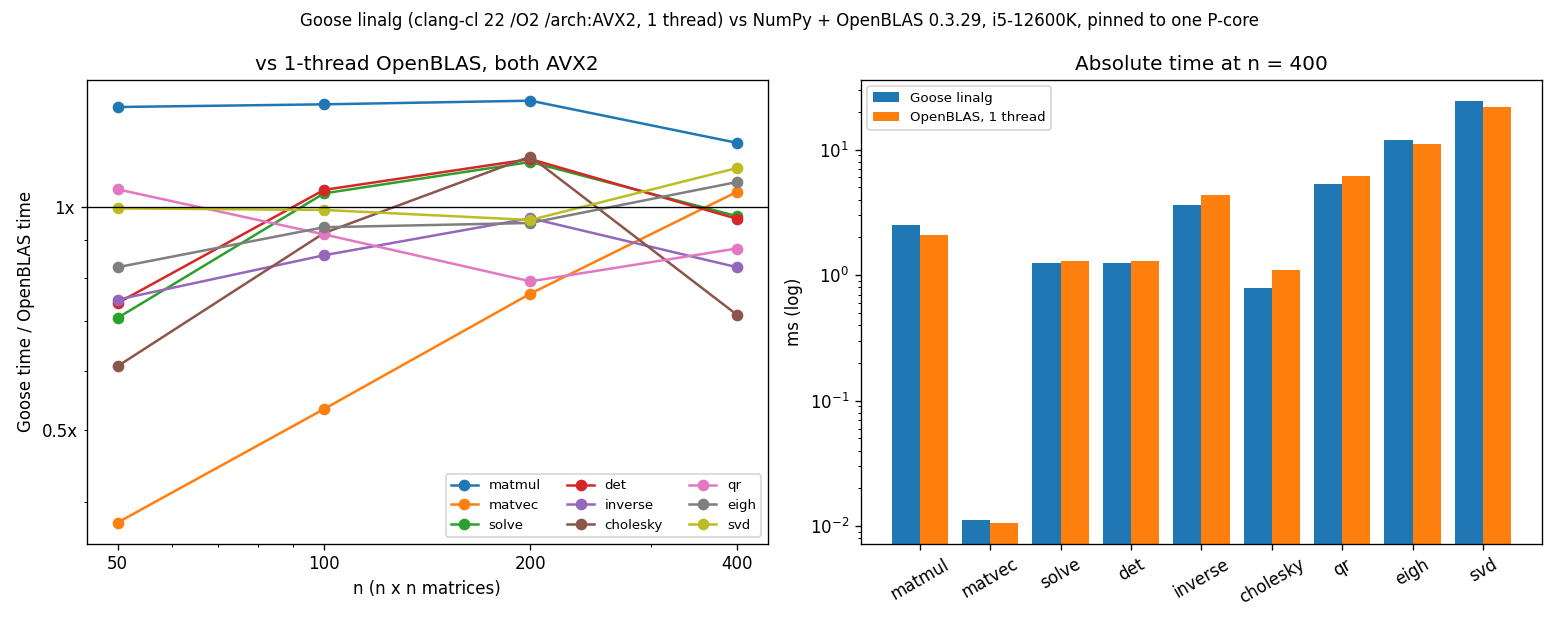
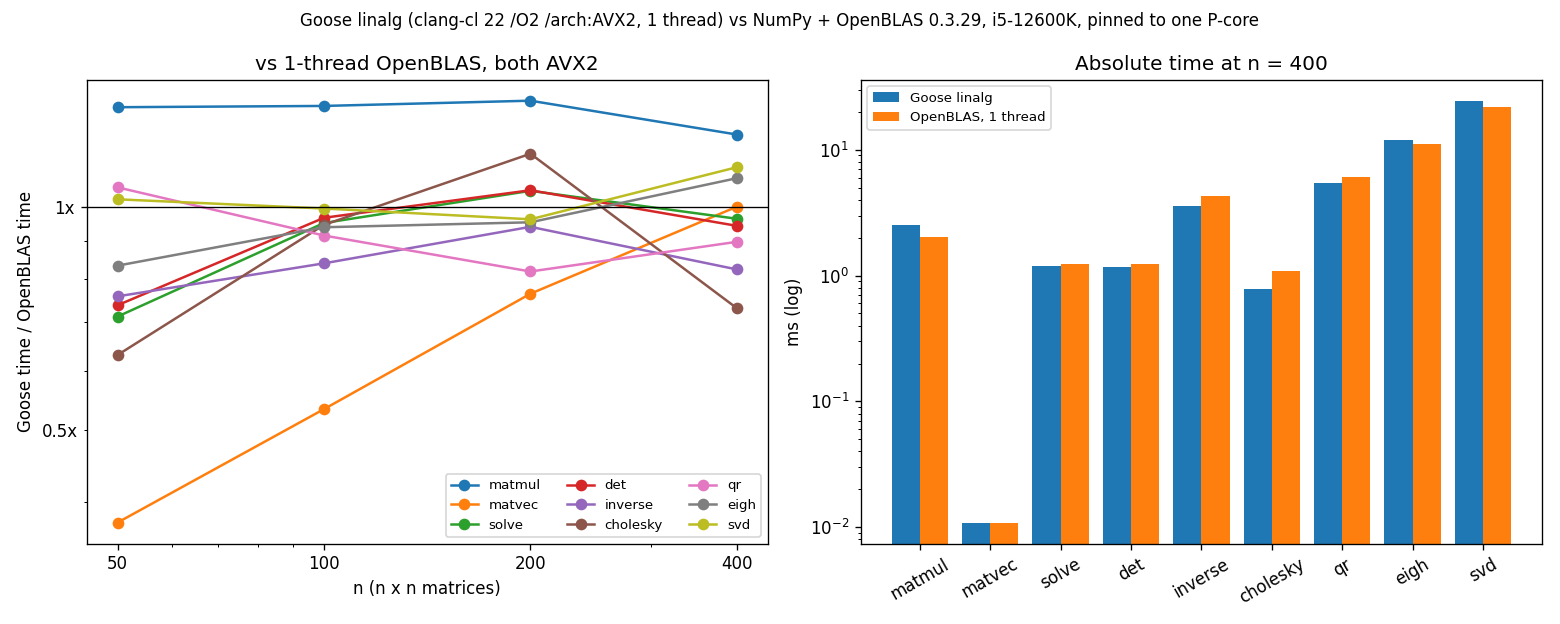
README and plots for v0.3.2
The single-threaded and multithreaded tables, the comparisons under
them and the plain-build and /fp:fast figures, from a fresh run of
run_pinned.ps1 with the faster LU panel; the LU's description names its
delayed column updates and vectorized pivot search. One OpenBLAS run on
six threads stalled (solve_matrix took 94 ms at n = 400 instead of 3) and
was run again. Imports point at v0.3.2.

diff --git a/README.md b/README.md
@@ -5,7 +5,7 @@ build step, nothing to install. An optional module, `linalg.parallel`, runs the 
 several threads.
 
 ```goose
-import linalg from "guillochon/goose-linalg@v0.3.1";   // or from "../goose-linalg" for a local checkout
+import linalg from "guillochon/goose-linalg@v0.3.2";   // or from "../goose-linalg" for a local checkout
 
 fn main() {
     let a = linalg::from_rows(3, 3, [4, 1, 2, 1, 3, 0, 2, 0, 5]);
@@ -62,7 +62,8 @@ first, until `goose fetch --update`.
 - `lu_factor` uses partial pivoting, blocked twice as LAPACK's `getrf`. Within an outer block of
   256 columns it factors 32-column panels, each updating the rest of the outer block with one
   matrix multiply; then the outer block updates the whole trailing matrix, 256 deep. Each panel is
-  factored in a column-major copy, so its divisions and updates run down long contiguous columns.
+  factored in a column-major copy, so its work runs down long contiguous columns: each column
+  takes the updates of the columns before it four at a time, then a vectorized pivot search.
   Up to 64 columns it runs unblocked. `det`, `solve`, `solve_matrix` and `inverse` are built on it. The
   triangular solves behind `solve_matrix` and `inverse` are blocked the same two ways. `inverse`
   also skips the zeros of L⁻¹, so it costs about 2n³ flops rather than 2⅔n³.
@@ -118,7 +119,7 @@ targets baseline x86-64 (SSE2).
 
 - **Under clang:** `linalg`'s hot kernels are `simd fn`s. Goose builds each for baseline x86-64
   and again for AVX2 and AVX-512, and picks the widest the CPU has at run time. A plain
-  `goose build` therefore ran within 3% of a build with AVX2 at n = 400 and 6% at smaller sizes, and
+  `goose build` therefore ran within 2% of a build with AVX2 at n = 400 and 9% at smaller sizes, and
   the matrix multiply ran at twice the speed it gets without `simd`.
 - **Under MSVC:** `simd` does nothing (Goose builds one version), so enable AVX2 yourself before
   building:
@@ -136,8 +137,8 @@ targets baseline x86-64 (SSE2).
   multiply-adds, and `/fp:contract` or `-ffp-contract=fast` change nothing.
 
 Don't use `/fp:fast` or `-ffast-math`. Under clang they do bring FMA back. The disassembly
-showed 2,124 vector FMA instructions against none, and the matrix multiply took 26% less time at
-n = 400, at 68 GFLOP/s, ahead of OpenBLAS's 62. But they break IEEE semantics: under `/fp:fast`, MSVC folds `1.0 / 0.0` to
+showed 2,124 vector FMA instructions against none, and the matrix multiply took 24% less time at
+n = 400, at 67 GFLOP/s, ahead of OpenBLAS's 63. But they break IEEE semantics: under `/fp:fast`, MSVC folds `1.0 / 0.0` to
 `1e300`, and checks for NaN and infinity stop working. One check in the test suite fails under
 it. It also ends `linalg.parallel`'s bit-for-bit match with the serial results: fast-math lets
 the compiler build the worker threads' copy of the kernel with a different summation order.
@@ -145,7 +146,7 @@ the compiler build the worker threads' copy of the kernel with a different summa
 ## Multithreading
 
 ```goose
-import linalg from "guillochon/goose-linalg@v0.3.1";
+import linalg from "guillochon/goose-linalg@v0.3.2";
 import linalg.parallel;
 
 fn main() {
@@ -243,7 +244,7 @@ race.
 | Memory | 32 GB DDR5-6200 (2 × 16 GB Corsair Vengeance, CMK32GX5M2B6200C36) |
 | Board | ASUS ROG STRIX Z690-I GAMING WIFI |
 | OS | Windows 11 Home 23H2 (build 22631), High performance power plan |
-| Goose | v2026.3, compiled by clang-cl 22.1.3 (Visual Studio 2026) with `/O2 /arch:AVX2`. A plain `goose build`, where `simd` picks the AVX2 kernels at run time, measured within 3% at n = 400 and 6% at smaller sizes. |
+| Goose | v2026.3, compiled by clang-cl 22.1.3 (Visual Studio 2026) with `/O2 /arch:AVX2`. A plain `goose build`, where `simd` picks the AVX2 kernels at run time, measured within 2% at n = 400 and 9% at smaller sizes. |
 | Reference | NumPy 2.2.6 on Python 3.12.0, linked to OpenBLAS 0.3.29 (`DYNAMIC_ARCH`, which picks AVX2/FMA kernels on this CPU) |
 | Pinning | Single-threaded runs on logical CPU 4, a performance core. Multithreaded runs use 6 threads pinned to logical CPUs 0, 2, 4, 6, 8 and 10, one per performance core. Unpinned, or on all 16 logical CPUs, OpenBLAS's LU ran more than 100× slower than on one thread. |
 
@@ -258,16 +259,16 @@ absolute times at n = 400:
 
 | | matmul | solve | inverse | cholesky | qr | eigh | svd |
 |---|---|---|---|---|---|---|---|
-| Goose | 2.5 ms | 1.26 ms | 3.6 ms | 0.78 ms | 5.4 ms | 12.0 ms | 24.5 ms |
-| OpenBLAS | 2.1 ms | 1.30 ms | 4.4 ms | 1.10 ms | 6.1 ms | 11.1 ms | 21.7 ms |
-| ratio | 1.22× | 0.97× | 0.83× | 0.71× | 0.88× | 1.08× | 1.13× |
+| Goose | 2.5 ms | 1.19 ms | 3.6 ms | 0.79 ms | 5.4 ms | 12.0 ms | 24.5 ms |
+| OpenBLAS | 2.0 ms | 1.24 ms | 4.3 ms | 1.08 ms | 6.0 ms | 11.0 ms | 21.7 ms |
+| ratio | 1.25× | 0.96× | 0.82× | 0.73× | 0.90× | 1.09× | 1.13× |
 
 At n = 400:
 - `solve`, `det` and `matvec` match OpenBLAS, and `inverse`, `cholesky` and `qr` beat it.
-- `matmul` runs at 51 GFLOP/s against OpenBLAS's 62. It is the furthest behind, at 1.2–1.4× at
+- `matmul` runs at 50 GFLOP/s against OpenBLAS's 63. It is the furthest behind, at 1.2–1.4× at
   every size, because Goose's C never uses FMA (see Building for speed).
-- The middle sizes are the next gap: at n = 200, `solve`, `det` and `cholesky` are 1.15–1.17×
-  behind. At n = 100, `solve` and `det` are 1.05× behind and `cholesky` is ahead.
+- The middle sizes are the next gap: at n = 200, `cholesky` is 1.18× behind, and `solve` and
+  `det` 1.05×. At n = 100 all three are ahead.
 
 At n = 50, almost everything is faster than NumPy, whose call overhead dominates there.
 
@@ -298,20 +299,20 @@ Times at n = 1600, and the speedups on 6 threads over 1:
 
 | n = 1600 | matmul | det | solve | solve_matrix | inverse | cholesky |
 |---|---|---|---|---|---|---|
-| Goose, 1 thread | 171 ms | 68 ms | 68 ms | 248 ms | 216 ms | 39 ms |
-| Goose, 6 threads | 67 ms | 46 ms | 46 ms | 118 ms | 117 ms | 39 ms |
-| speedup | **2.6×** | 1.5× | 1.5× | **2.1×** | **1.8×** | 1.0× |
-| OpenBLAS, 1 thread | 119 ms | 53 ms | 53 ms | 197 ms | 194 ms | 40 ms |
-| OpenBLAS, 6 threads | 23 ms | 18 ms | 53 ms | 60 ms | 57 ms | 26 ms |
-| speedup | 5.1× | 2.9× | 1.0× | 3.3× | 3.4× | 1.5× |
+| Goose, 1 thread | 172 ms | 67 ms | 68 ms | 244 ms | 210 ms | 38 ms |
+| Goose, 6 threads | 69 ms | 48 ms | 44 ms | 123 ms | 120 ms | 39 ms |
+| speedup | **2.5×** | 1.4× | 1.5× | **2.0×** | **1.8×** | 1.0× |
+| OpenBLAS, 1 thread | 118 ms | 53 ms | 54 ms | 197 ms | 194 ms | 41 ms |
+| OpenBLAS, 6 threads | 23 ms | 18 ms | 53 ms | 62 ms | 56 ms | 26 ms |
+| speedup | 5.1× | 2.9× | 1.0× | 3.2× | 3.4× | 1.5× |
 
 On one thread Goose is 1.1–1.45× behind OpenBLAS at this size, more than at n = 400, where the
-matrices fit in cache; `cholesky` is level. On six it is 1.5–2.9× behind, because OpenBLAS's
+matrices fit in cache; `cholesky` is 6% ahead. On six it is 1.5–3× behind, because OpenBLAS's
 threads share the matrix in memory while Goose's copy what they work on. The exception is
-`solve`, where Goose takes 14% less time: OpenBLAS doesn't speed it up on more threads at this
+`solve`, where Goose takes 17% less time: OpenBLAS doesn't speed it up on more threads at this
 size.
 
-At n = 800, `matmul` gains 1.8×, `solve_matrix` 1.23× and `inverse` 1.16×. The rest run at
+At n = 800, `matmul` gains 1.8×, `solve_matrix` 1.30× and `inverse` 1.18×. The rest run at
 serial speed.
 
 ### Reproducing
